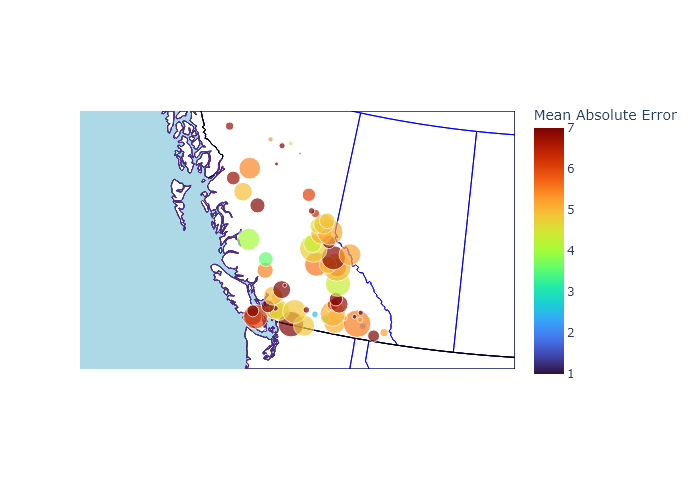
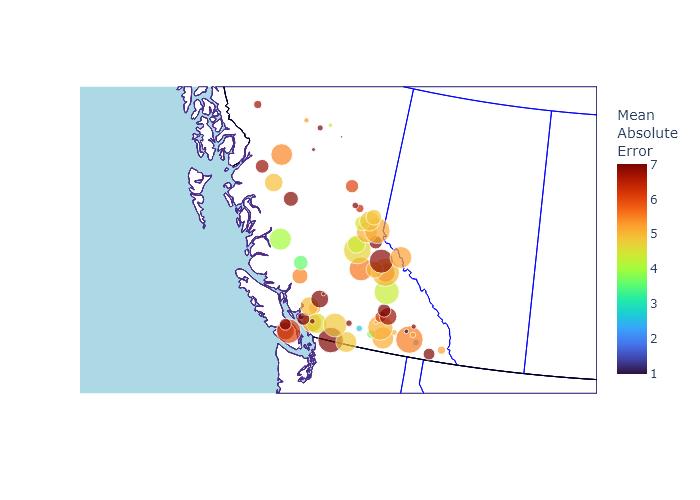
create appendix tables

diff --git a/make_figures.py b/make_figures.py
@@ -59,13 +59,17 @@ MAE_clusters = pd.read_csv('outputs/cluster_mae.csv')
 
 MAE = MAE.iloc[1:-2, :]
 print(MAE)
-fig = MAE.plot.bar(legend = False, title = "Mean Absolute Test Error in SLR with Different Prediction Methods")
+plt.rcParams.update({'font.size': 22})
 
+fig = MAE.plot.bar(legend = False, title = "Mean Absolute Test Error in SLR with Different Prediction Methods")
+fig.set_xlabel('Method Number')
+fig.set_ylabel('Mean Absolute Test Error')
 fig.figure.savefig('outputs/figs/mae.png')
 
 RMSE = RMSE.iloc[1:-2, :]
 fig = RMSE.plot.bar(legend = False, title = "Root Mean Square Test Error in SLR with Different Prediction Methods")
-
+fig.set_xlabel('Method Number')
+fig.set_ylabel('Root Mean Square Test Error')
 fig.figure.savefig('outputs/figs/rmse.png')
 
 
@@ -142,6 +146,7 @@ def make_maps(value_locations, lats, lons, errortype, short_errortype):
             )
             # no description in image, just make caption manually
             fig.write_image('outputs/figs/' + short_errortype + column + '.png')
+            
         
 
 def get_lat_lon(dataset):
@@ -161,4 +166,4 @@ def get_lat_lon(dataset):
 # do for each
 make_maps(MSE_locations, lats, lons, 'Mean Squared Error', 'mse_')
 make_maps(RMSE_stations, lats, lons, 'Root Mean Squared Error', 'rmse_')
-make_maps(MAE_stations, lats, lons, 'Mean Absolute Error', 'mae_')
+make_maps(MAE_stations, lats, lons, 'Mean<br>Absolute<br>Error', 'mae_')

diff --git a/compare_models.py b/compare_models.py
@@ -26,7 +26,7 @@ def get_validation(dataset):
     #print(dataset)
     n = dataset.shape[0]
     split = int(8*n/10)
-    dataset = dataset.iloc[split + 1:, :]
+    dataset = dataset.iloc[split+1:, :]
     print(dataset)
     return dataset
 
